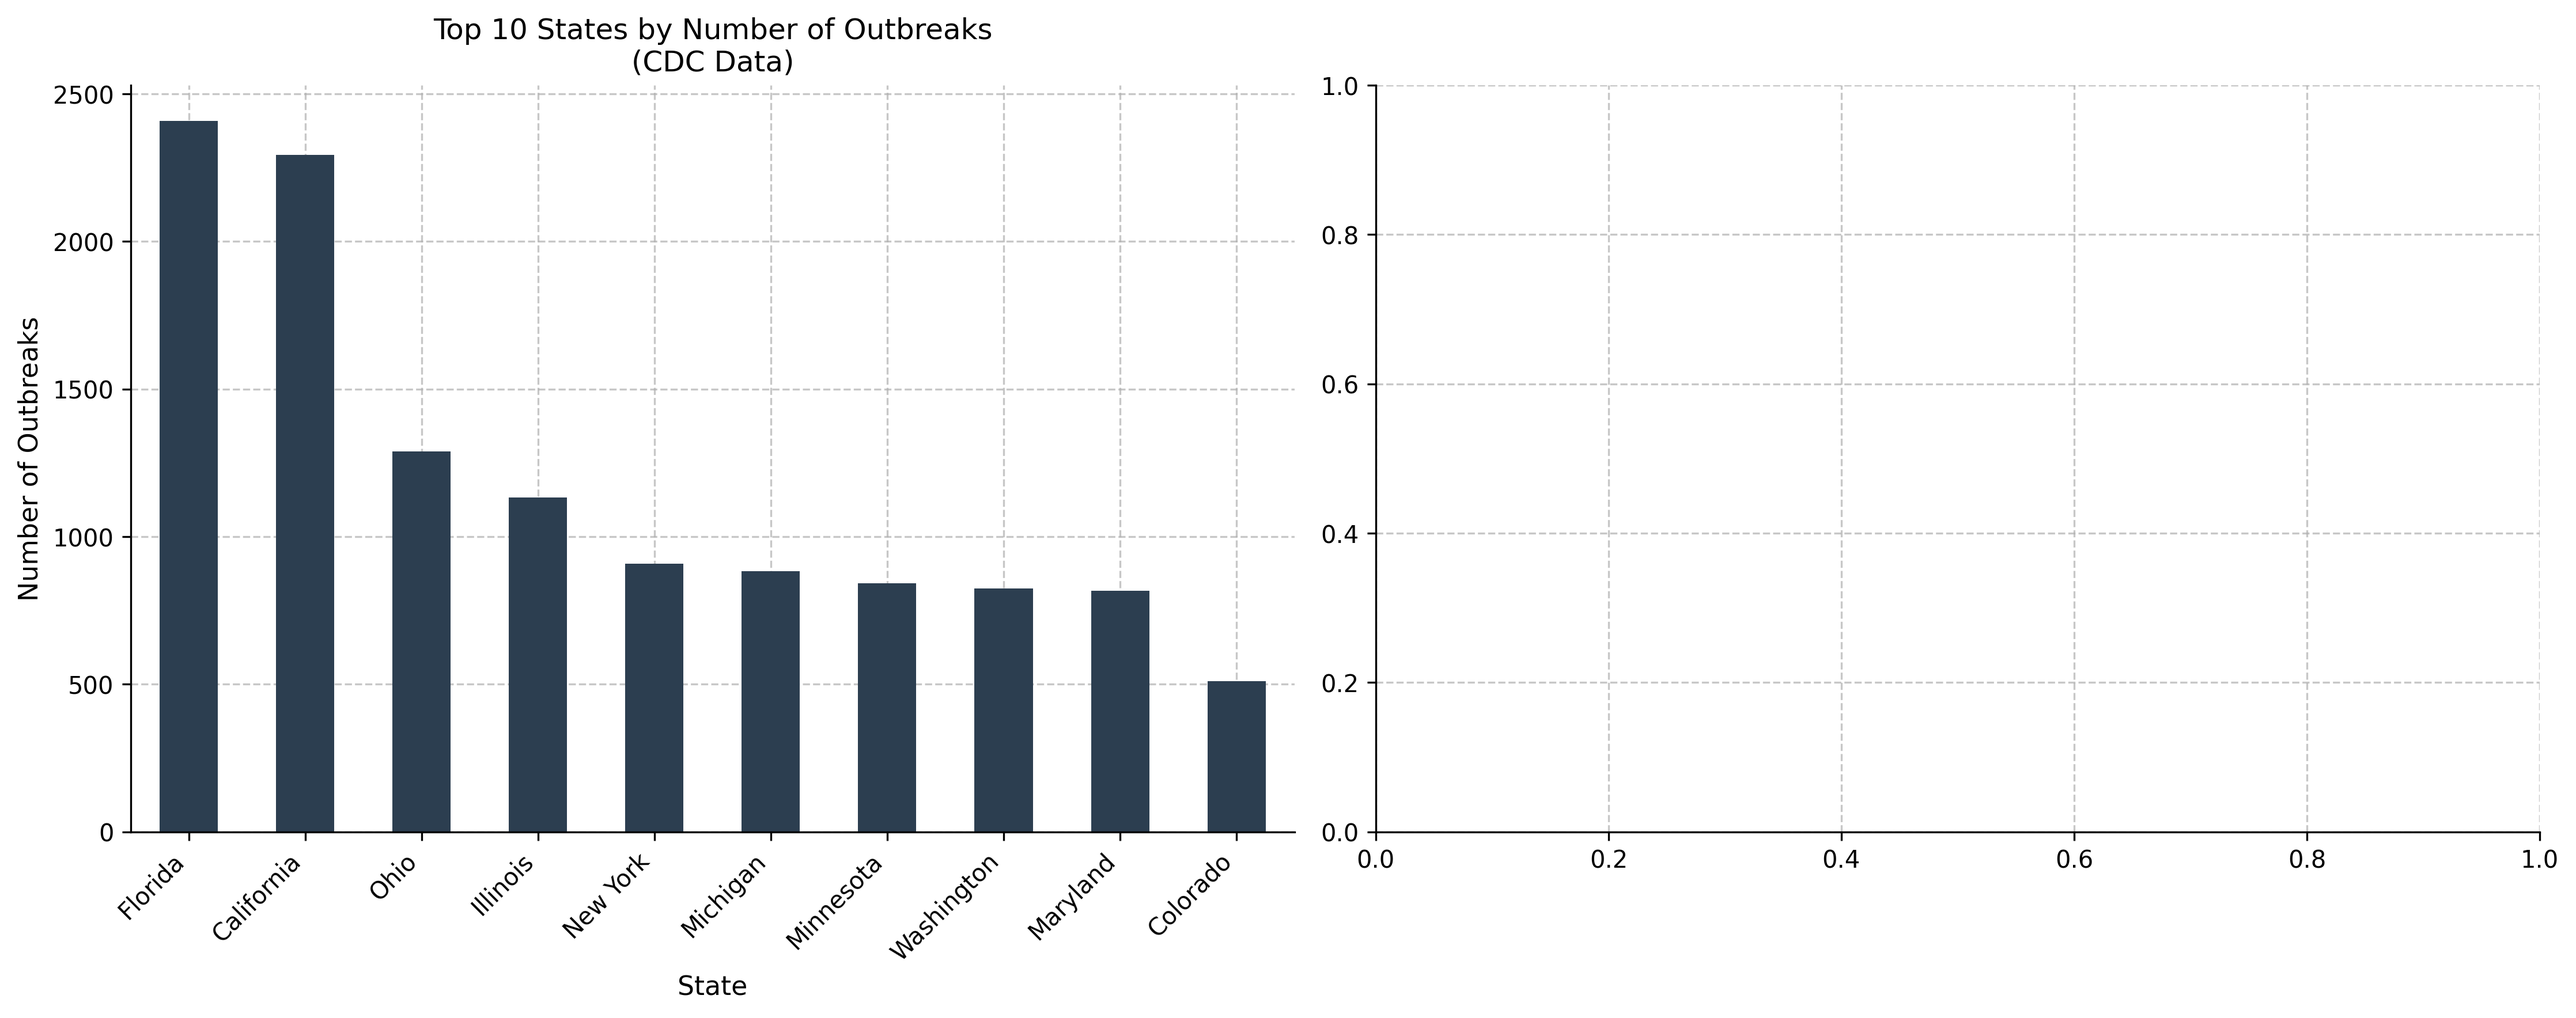
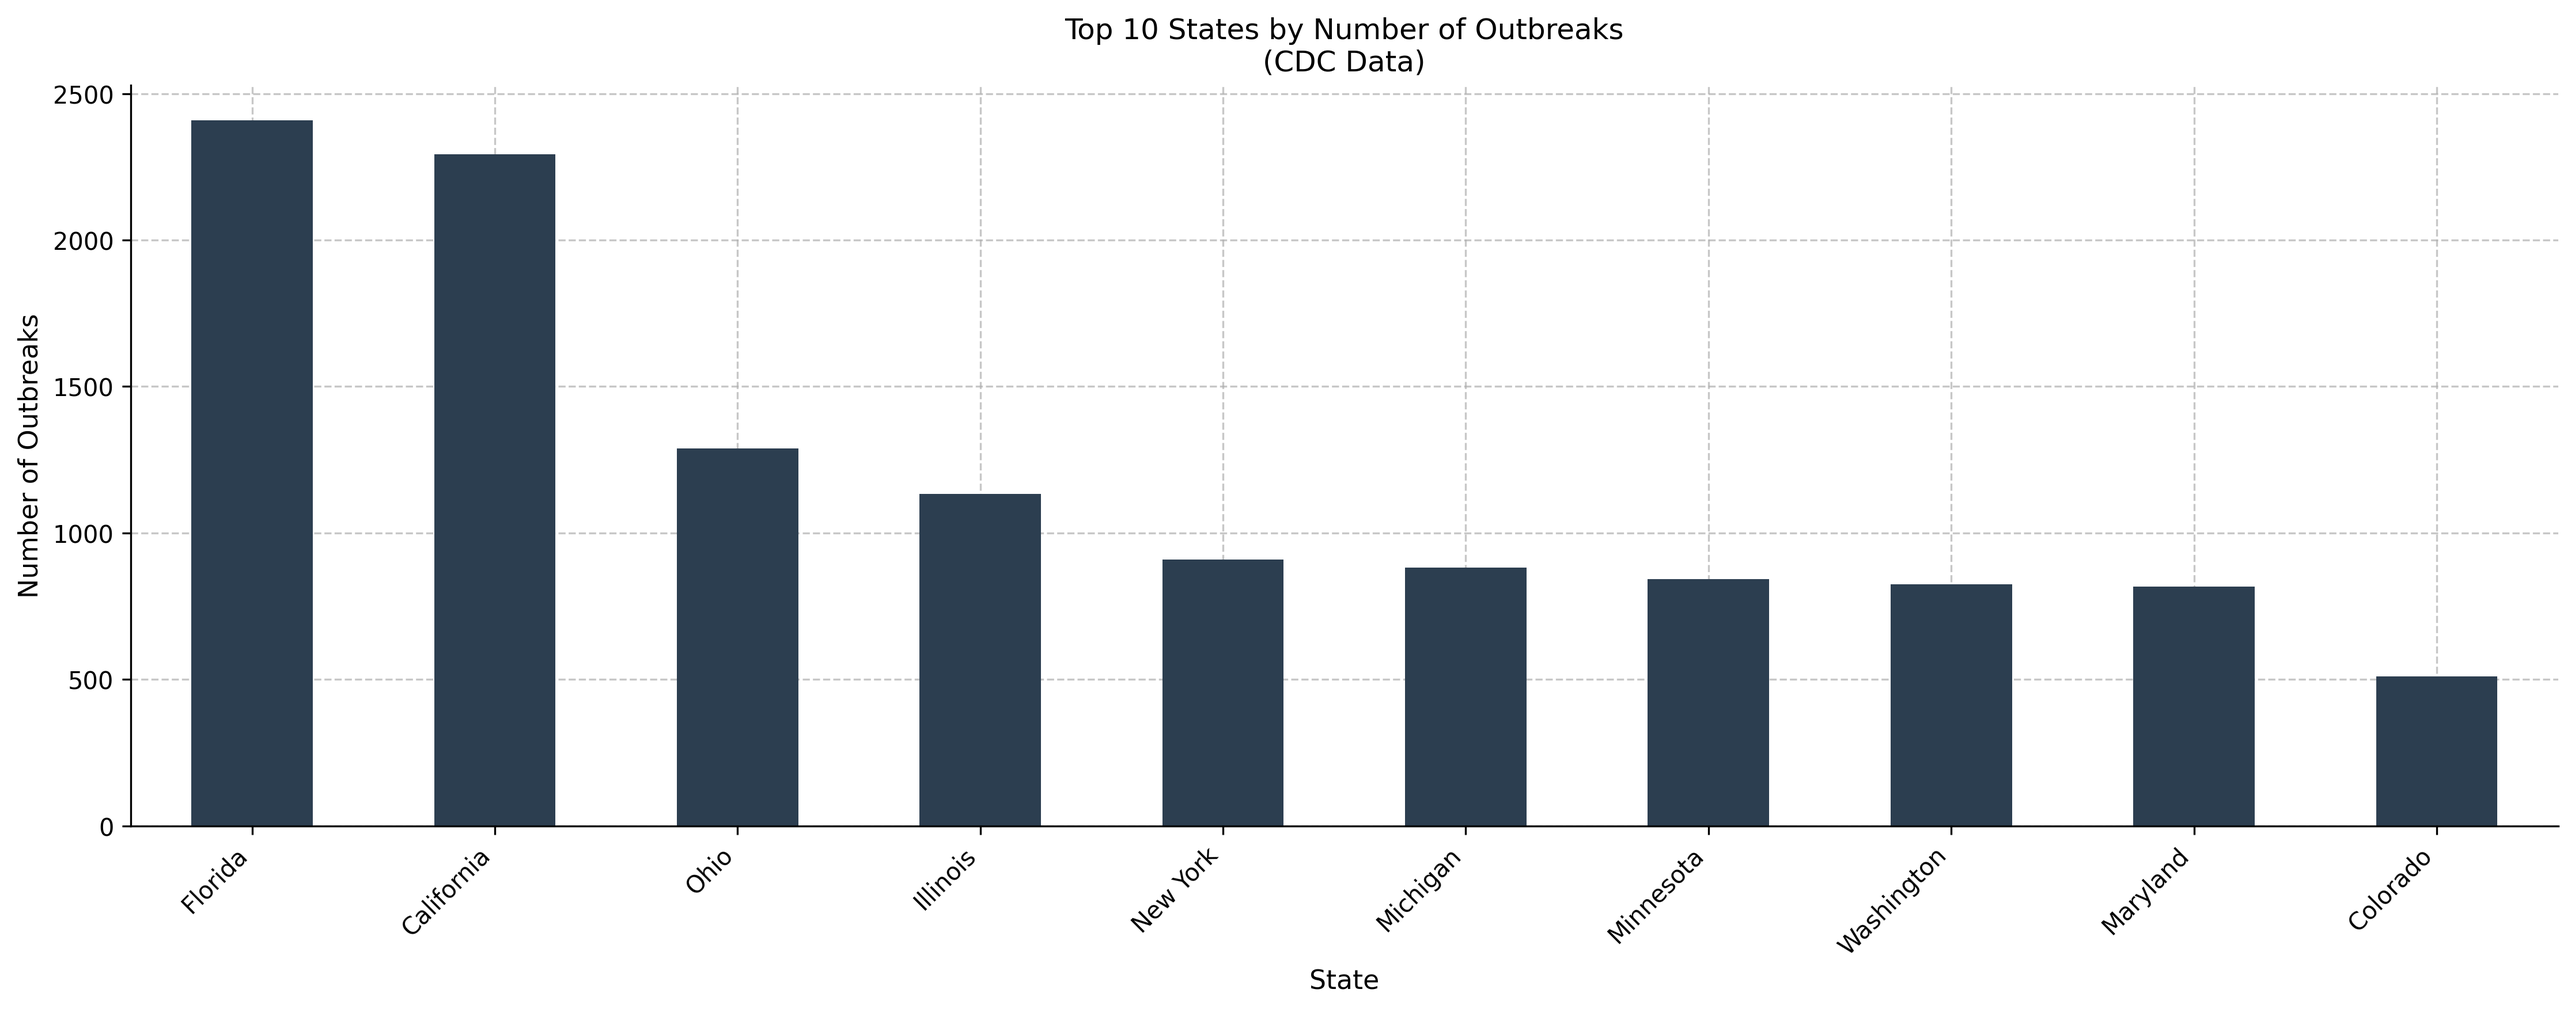
highs and lows

diff --git a/viz.py b/viz.py
@@ -3,11 +3,8 @@ import numpy as np
 import matplotlib.pyplot as plt
 import seaborn as sns
 from pathlib import Path
-import pickle
-from sklearn.metrics import confusion_matrix, classification_report
-import plotly.express as px
+from sklearn.metrics import confusion_matrix
 import plotly.graph_objects as go
-from datetime import datetime, timedelta
 
 class ProjectVisualizer:
     def __init__(self, save_path="project_figures/"):
@@ -32,7 +29,7 @@ class ProjectVisualizer:
         ax.grid(True, linestyle='--', alpha=0.7)
         ax.set_axisbelow(True)
         
-    def plot_data_distribution(self, cdc_data, twitter_data):
+    def plot_data_distribution(self, cdc_data):
         """
         Plot distribution of data sources
         
@@ -40,15 +37,11 @@ class ProjectVisualizer:
         -----------
         cdc_data : pandas.DataFrame
             DataFrame containing CDC outbreak data
-        twitter_data : pandas.DataFrame
-            DataFrame containing Twitter data
         """
         # First, let's examine what columns we have
         print("CDC data columns:", cdc_data.columns.tolist())
-        print("Twitter data columns:", twitter_data.columns.tolist())
         
-        # Create subplots based on available data
-        fig, (ax1, ax2) = plt.subplots(1, 2, figsize=(15, 6))
+        fig, ax1 = plt.subplots(figsize=(15, 6))
         
         # CDC Outbreaks by State (if available)
         if 'State' in cdc_data.columns:
@@ -70,43 +63,43 @@ class ProjectVisualizer:
         
         self.set_style(ax1)
         
-        
-        self.set_style(ax2)
-        
         plt.tight_layout()
         plt.savefig(self.save_path / 'data_distribution.png', dpi=300, bbox_inches='tight')
         plt.close()
-        
-    def plot_model_performance(self, model_results):
-        """Plot model performance metrics"""
-        fig, axes = plt.subplots(2, 2, figsize=(15, 12))
-        
+    def plot_model_performance(self, true_positives, false_negatives, false_positives, true_negatives, feature_importance):
+        """
+        Plot model performance using a confusion matrix, ROC curve, and feature importance.
+        """
+        # Create figure and axes - fix the unpacking
+        fig, (ax1, ax2, ax3) = plt.subplots(1, 3, figsize=(18, 6))
+
         # Confusion Matrix
-        cm = confusion_matrix(model_results['true'], model_results['pred'])
-        sns.heatmap(cm, annot=True, fmt='d', cmap='Blues', ax=axes[0,0])
-        axes[0,0].set_title('Confusion Matrix')
+        cm = np.array([[true_negatives, false_positives], 
+                    [false_negatives, true_positives]])
+        sns.heatmap(cm, annot=True, fmt='d', cmap='Blues', ax=ax1)
+        ax1.set_title('Confusion Matrix')
+        ax1.set_xlabel('Predicted Label')
+        ax1.set_ylabel('True Label')
+        ax1.set_xticklabels(['Negative', 'Positive'])
+        ax1.set_yticklabels(['Negative', 'Positive'])
         
         # ROC Curve
-        fpr, tpr = model_results['roc_curve']
-        axes[0,1].plot(fpr, tpr, color=self.colors[1])
-        axes[0,1].plot([0, 1], [0, 1], 'k--')
-        axes[0,1].set_title('ROC Curve')
-        axes[0,1].set_xlabel('False Positive Rate')
-        axes[0,1].set_ylabel('True Positive Rate')
+        fpr = false_positives / (false_positives + true_negatives) if (false_positives + true_negatives) > 0 else 0
+        tpr = true_positives / (true_positives + false_negatives) if (true_positives + false_negatives) > 0 else 0
         
+        ax2.plot([0, fpr, 1], [0, tpr, 1], color=self.colors[1], marker='o', linestyle='-')
+        ax2.plot([0, 1], [0, 1], 'k--')  # Random classifier reference line
+        ax2.set_title('ROC Curve')
+        ax2.set_xlabel('False Positive Rate')
+        ax2.set_ylabel('True Positive Rate')
+
         # Feature Importance
-        feat_imp = model_results['feature_importance'].sort_values(ascending=True)
-        feat_imp.plot(kind='barh', ax=axes[1,0], color=self.colors[3])
-        axes[1,0].set_title('Feature Importance')
-        
-        # Performance Over Time
-        time_perf = model_results['time_performance']
-        axes[1,1].plot(time_perf.index, time_perf['f1_score'], color=self.colors[2])
-        axes[1,1].set_title('Model Performance Over Time')
-        axes[1,1].set_xlabel('Date')
-        axes[1,1].set_ylabel('F1 Score')
-        
-        for ax in axes.flat:
+        sorted_feat_imp = feature_importance.sort_values(by='importance', ascending=True)
+        sorted_feat_imp.plot(kind='barh', x='feature', y='importance', ax=ax3, color=self.colors[3])
+        ax3.set_title('Feature Importance')
+
+        # Apply styling to each axis
+        for ax in [ax1, ax2, ax3]:
             self.set_style(ax)
             
         plt.tight_layout()
@@ -144,13 +137,19 @@ class ProjectVisualizer:
         
         fig.write_image(str(self.save_path / 'detection_timeline.png'))
         
-    def generate_all_figures(self, cdc_data, twitter_data, model_results, detection_results):
+    def generate_all_figures(self, cdc_data, model_results, detection_results):
         """Generate all figures for the project"""
         print("Generating data distribution plots...")
-        self.plot_data_distribution(cdc_data, twitter_data)
+        self.plot_data_distribution(cdc_data)
         
         print("Generating model performance plots...")
-        self.plot_model_performance(model_results)
+        self.plot_model_performance(
+            model_results['true_positives'],
+            model_results['false_negatives'],
+            model_results['false_positives'],
+            model_results['true_negatives'],
+            model_results['feature_importance']
+        )
         
         print("Generating detection timeline comparison...")
         self.create_timeline_comparison(detection_results)
@@ -159,12 +158,11 @@ class ProjectVisualizer:
 
 # Example usage
 if __name__ == "__main__":
-    try:
+#   try:
         visualizer = ProjectVisualizer()
         
         # Load your data here
         cdc_data = pd.read_csv('outbreaks.csv')
-        twitter_data = pd.read_pickle('TWEET-FID/LREC_BSC/train.p')
         
         feature_importance = pd.DataFrame({
         "feature": [
@@ -180,9 +178,10 @@ if __name__ == "__main__":
 
         # Create sample model results dictionary
         model_results = {
-            'true': np.array([0, 1, 0, 1, 1]),
-            'pred': np.array([0, 1, 0, 0, 1]),
-            'roc_curve': (np.array([0, 0.5, 1]), np.array([0, 0.7, 1])),
+            'true_negatives': 1580,
+            'false_positives': 413,
+            'false_negatives': 647,
+            'true_positives': 1184,
             'feature_importance': feature_importance,
         }
         
@@ -192,15 +191,12 @@ if __name__ == "__main__":
             'ml_detection_days': np.random.randint(2, 8, 10)
         })
         
-        visualizer.generate_all_figures(cdc_data, twitter_data, model_results, detection_results)
+        visualizer.generate_all_figures(cdc_data, model_results, detection_results)
         
-    except Exception as e:
-        print(f"An error occurred: {str(e)}")
-        # Print more detailed information about the data
-        print("\nData info:")
-        if 'cdc_data' in locals():
-            print("\nCDC data info:")
-            print(cdc_data.info())
-        if 'twitter_data' in locals():
-            print("\nTwitter data info:")
-            print(twitter_data.info())
+#    except Exception as e:
+#        print(f"An error occurred: {str(e)}")
+#        # Print more detailed information about the data
+#        print("\nData info:")
+#        if 'cdc_data' in locals():
+#            print("\nCDC data info:")
+#            print(cdc_data.info())
